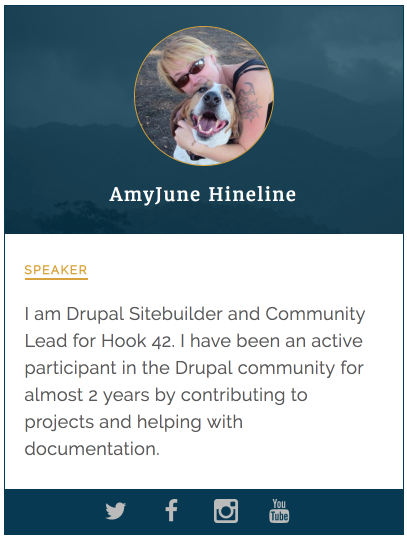
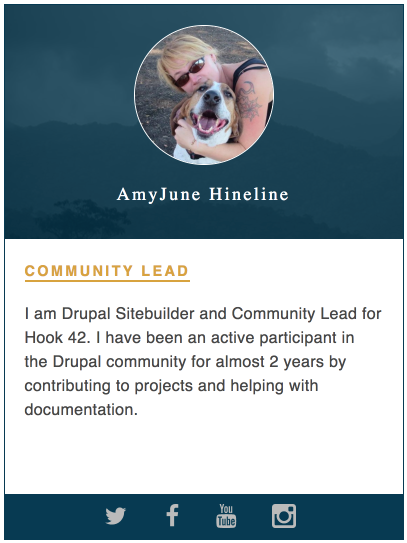
Adds new screenshot image

diff --git a/exercises/4-building-components.md b/exercises/4-building-components.md
@@ -1,32 +1,40 @@
 # Component-based Development with Drupal 8
 
-## 1 - Building Components (continued)
-This training is broken down in three parts:  Building Components, Preparing Drupal for Components, and finally, Integrating components with Drupal.
+## 1 - Building Components (continued...)
+
+Now that we have built a couple of pretty simple component in which we introduced essential steps, information and patterns, we can probably take this to a new level.
 
 
 ### 1.3 - Creating more advanced components
-During this training we will build a page that list speakers and their profiles.  One of the advantages of components is being able to reuse them and even alter them without having to rebuild from scratch.  We will start by building a **Speaker** card component which will consist of a speaker photo, name, short bio and social media channels to connect with the speaker.
+During this training we will build a page that lists speakers and their profiles.  One of the advantages of components is being able to reuse them and even alter them without having to rebuild them from scratch.  We will start by building a **Speaker** card component which will consist of a speaker photo, role, name, short bio and social media channels to connect with the speaker.
 
 Once our single component is ready, we will create a page in which we reuse the speaker component to list as many speakers as we need by passing data from Drupal to populate each speaker card.
+
+In this section we will introduce the use of **Twig includes**.  Which is a way to nest one component into another.  Very powerful technique for building advanced components.
+
 
 #### Let's create the Speaker component now
 
 Inside the `badcamp` directory do one of these two things:
+
 1. If you are using Mediacurrent's theme generator:
    * Run `npx -p yo -p generator-mc-d8-theme -c 'yo mc-d8-theme:component "Speaker"'`
 
-A new component, **speaker**, will be created inside `/src/components/`.  Inside the **speaker** component you will notice 3 files: `speaker.json`, `speaker.scss`, and `speaker.twig`.  We will go over these files in more detail later.
+A new component, **speaker**, will be created inside `/src/components/`.  Inside the **speaker** component you will notice the same 3 files we created by hand in previous components (`speaker.json`, `speaker.scss`, and `speaker.twig`).  The generator does its best to add dummy data for the component but we will most likely end up replacing it or modifying it with the real data we need for the component.
 
-2. If you are NOT using Mediacurrent's theme generator,  you can create the component by hand.
+2. If you are **NOT** using Mediacurrent's theme generator,  you can create the component by hand just like we did before.
+
    * Inside `src/components/` create a new directory called **speaker**.
+
    * Inside the **speaker** directory, create the 3 files listed above (`speaker.json`,`speaker.scss`, and `speaker.twig`).
 
 
-### 1.3.1 - Creating data source for our component
-In order to see our component in the styleguide, we need to provide stock/dummy content.  Our speaker component looks at the `speaker.json` file for all of its content.  We could actually hard-code our content in the twig template but using **.json** allows us to separate data from presentation.
+### 1.3.1 - Creating data source for our component (JSON object)
+
+A JSON Object takes the place of a database when building components.  In it we can find all the data we need to pass to our component in a `key | value` format.
 
 > **_NOTE_**
-> If you used the theme generator to create your **speaker** component, you should notice **speaker.json** already has content.  I'd say copy the code snippet below and replace the current content in the **speaker.json**.  If you did not use the theme generator to create your **speaker** component your **speaker.json** will be empty.  Copy the code below into it.
+> If you used the Mediacurrent's theme generator to create your **speaker** component, you should notice **speaker.json** already has content.  I'd say copy the code snippet below and replace the current content in the **speaker.json**.  If you did not use the theme generator to create your **speaker** component your **speaker.json** will be empty.  Copy the code below into it.
 
 **speaker.json**
 ```json
@@ -56,8 +64,6 @@ In order to see our component in the styleguide, we need to provide stock/dummy 
   "class": ""
 }
 ```
-The code above is a JSON object.  JSON objects are written in `key/value` pairs.  The **key** is a variable we can later pass to Drupal to map data to our component.  More on this later.
-
 We have created individual variables for each of the fields of the Speaker component.  However, for the social media icons we have created an array which holds the url and name of the social channel.  This array will allow us to add as many or as little social media channels per speaker.
 
 
@@ -67,6 +73,7 @@ The next step in the process is to write the markup the **speaker** components n
 **speaker.twig**
 ```php
 {{ attach_library('badcamp/speaker') }}
+
 <article class="speaker {{ class|default('') }}">
 
 <div class="speaker__header">
@@ -147,7 +154,6 @@ The final step in this process is to write the styles to make our component look
 }
 
 .speaker__name {
-  // @include font-secondary;
   color: $color-white;
   font-size: 18px;
   font-weight: 400;
